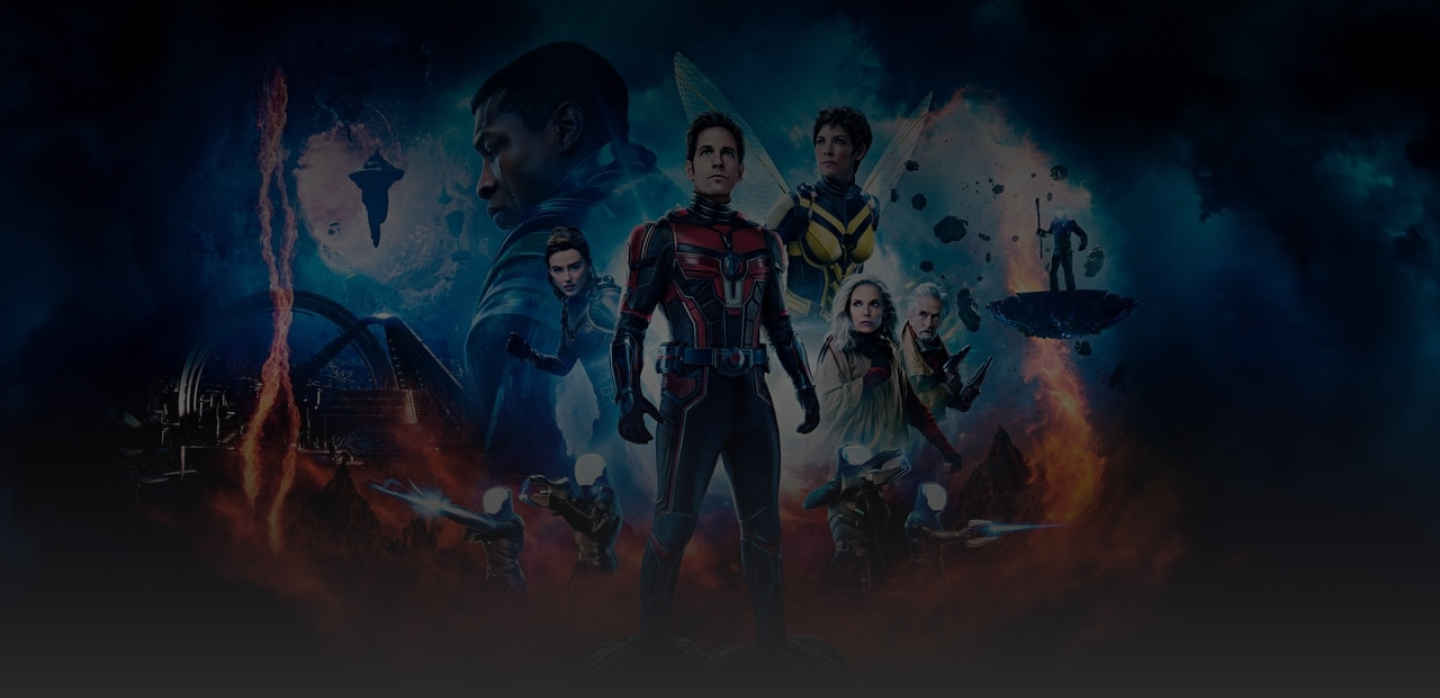
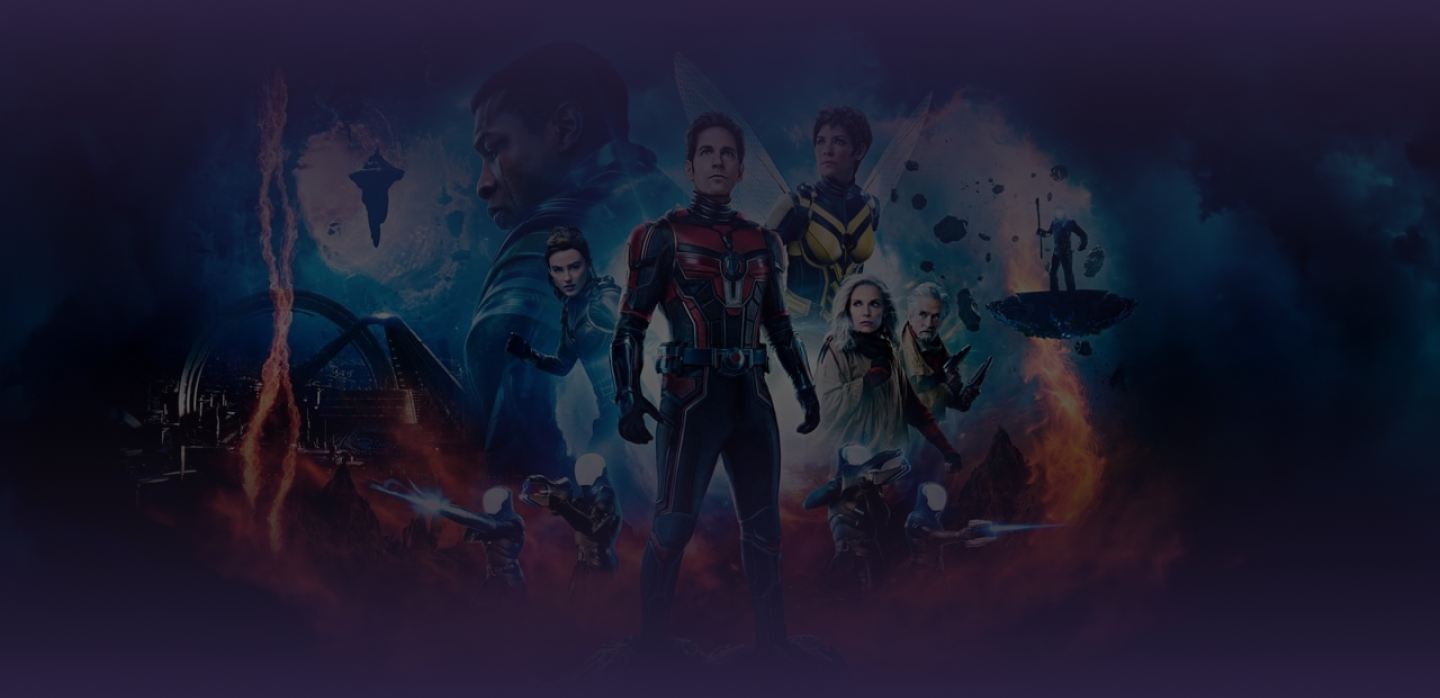
drajat yudo

Changed region(s): [[0.0, 0.0, 1.0, 0.2407]]

diff --git a/frontend/src/pages/login/Login.js b/frontend/src/pages/login/Login.js
@@ -4,21 +4,19 @@ import "./login.css";
 const Login = () => {
   return (
     <center>
-      <div class="login d-flex" style={{ height: "100vh" }}>
-        <div class="w-50" style={{ background: "#C44D4D" }}>
-          <img
-            src="./images/icon/cinema.png"
-            alt=""
-            style={{
-              width: "250px",
-              marginTop: "100px",
-            }}
-          />
-          <h3 className="text-white text-center mt-5 w-50">
-            Boking your ticket to watch your favorite movie
-          </h3>
-        </div>
+      <div className="login d-flex" style={{ height: "100vh" }}>
+        <div
+          data-aos="fade-right"
+          data-aos-duration="1000"
+          className="w-50 aos-animate aos-init"
+          style={{
+            backgroundImage: "url('./images/poster/bgLogin.png')",
+            backgroundSize: "cover",
+            backgroundRepeat: "no-repeat",
+          }}
+        ></div>
         <div className="input w-50 d-flex flex-column text-white">
+          <h2 className="mb-5 fw-bold">Login</h2>
           <input type="email" placeholder="Email" />
           <input type="password" placeholder="Password" />
           <button className="btn text-white rounded-2 p-2 my-4" type="submit">

diff --git a/frontend/src/components/jumbotron/HomeJumbotron.js b/frontend/src/components/jumbotron/HomeJumbotron.js
@@ -4,25 +4,30 @@ import { Swiper, SwiperSlide } from "swiper/react";
 
 // Import Swiper styles
 import "swiper/css";
+import "swiper/css/effect-fade";
 import "swiper/css/navigation";
 import "swiper/css/pagination";
+
 import "./style.css";
 
 // import required modules
-import { Navigation, Pagination, Mousewheel, Keyboard } from "swiper";
+import { Autoplay, EffectFade, Navigation, Pagination, Keyboard } from "swiper";
 import ContentSwiper from "./ContentSwiper";
 
 const HomeJumbotron = () => {
   return (
     <div style={{ marginTop: "-90px" }}>
       <Swiper
-        cssMode={true}
+        effect={"fade"}
+        autoplay={{
+          delay: 3000,
+          disableOnInteraction: false,
+        }}
         navigation={true}
         loop={true}
         pagination={{ clickable: true, dynamicBullets: true }}
-        mousewheel={true}
         keyboard={true}
-        modules={[Navigation, Pagination, Mousewheel, Keyboard]}
+        modules={[Autoplay, EffectFade, Navigation, Pagination, Keyboard]}
         className="mySwiper"
       >
         <center>

diff --git a/frontend/src/pages/login/Register.js b/frontend/src/pages/login/Register.js
@@ -6,20 +6,16 @@ const Register = () => {
   return (
     <center>
       <div class="register d-flex" style={{ height: "100vh" }}>
-        <div class="w-50" style={{ background: "#C44D4D" }}>
-          <img
-            src="./images/icon/cinema.png"
-            alt=""
-            style={{
-              width: "250px",
-              marginTop: "100px",
-            }}
-          />
-          <h3 className="text-white text-center mt-5 w-50">
-            Boking your ticket to watch your favorite movie
-          </h3>
-        </div>
+        <div
+          class="w-50"
+          style={{
+            backgroundImage: "url('./images/poster/bgLogin.png')",
+            backgroundSize: "cover",
+            backgroundRepeat: "no-repeat",
+          }}
+        ></div>
         <div className="input w-50 d-flex flex-column text-white">
+          <h2 className="mb-5 fw-bold">Register</h2>
           <input type="email" placeholder="Email" />
           <input type="password" placeholder="Password" />
           <input type="password" placeholder="Password" />

diff --git a/frontend/src/pages/Home.js b/frontend/src/pages/Home.js
@@ -4,6 +4,7 @@ import HomeJumbotron from "../components/jumbotron/HomeJumbotron";
 import Footer from "../components/layouts/Footer";
 import NavigationBar from "../components/layouts/NavigationBar";
 import ListMovie from "../components/ListMovie/ListMovie";
+import Option from "../components/Option";
 import OurPartner from "../components/OurPartner";
 
 const Home = () => {
@@ -12,12 +13,23 @@ const Home = () => {
       <NavigationBar />
       <HomeJumbotron />
       <Container>
+        <Option />
         <center>
           <ListMovie titleList="Now Showing In Cinema" />
           <ListMovie titleList="Popular" />
           <OurPartner />
         </center>
       </Container>
+      <div
+        style={{
+          backgroundImage: "url('./images/poster/bgFooter.png')",
+          backgroundSize: "cover",
+          backgroundRepeat: "no-repeat",
+          backgroundPosition: "0 -10px",
+          height: "80vh",
+          marginBottom: "-150px",
+        }}
+      ></div>
       <Footer />
     </div>
   );

diff --git a/frontend/src/components/Option.js b/frontend/src/components/Option.js
@@ -1,0 +1,29 @@
+import React from "react";
+
+const Option = () => {
+  return (
+    <div style={{ marginTop: "100px" }}>
+      <div className="option d-flex flex-column">
+        <button
+          className="btn text-white text-start fs-3 fw-bold ps-5"
+          style={{
+            backgroundImage: `url('./images/poster/nowShowingBg.png')`,
+          }}
+        >
+          Now Showing
+        </button>
+        <button
+          className="btn text-white mt-5 text-start fs-3 fw-bold ps-5"
+          style={{
+            backgroundImage: `url('./images/poster/marvelBg.png')`,
+          }}
+        >
+          Marvel Movie
+        </button>
+      </div>
+      <div></div>
+    </div>
+  );
+};
+
+export default Option;

diff --git a/frontend/src/styles/style.css b/frontend/src/styles/style.css
@@ -1,7 +1,7 @@
 @import url("https://fonts.googleapis.com/css2?family=Poppins&display=swap");
 
 body {
-  background-color: #292929;
+  background-color: #2a2141;
   font-family: "Poppins", sans-serif;
 }
 
@@ -12,4 +12,21 @@ a {
 
 a:hover {
   color: rgb(221, 221, 221);
+}
+
+.option button {
+  background-size: cover;
+  background-repeat: no-repeat;
+  background-position: 0 -10px;
+  height: 100px;
+  width: 500px;
+  border-radius: 5px;
+  transition: 0.8s;
+}
+
+.option button:hover {
+  background-size: 150%;
+  border-right: 5px solid rgb(158, 24, 24);
+  width: 504px;
+  background-position: 50% 50%;
 }

diff --git a/frontend/src/components/jumbotron/AboutJumbotron.js b/frontend/src/components/jumbotron/AboutJumbotron.js
@@ -6,9 +6,10 @@ const AboutJumbotron = () => {
     backgroundSize: "cover",
     backgroundRepeat: "no-repeat",
     backgroundImage: `url('./images/poster/wide-bg.png')`,
-    backgroundPosition: "0 -110px",
+    backgroundPosition: "0 -50px",
     color: "white",
-    padding: "100px 150px",
+    padding: "150px",
+    marginTop: "-90px",
   };
 
   const imgStyle = {

diff --git a/frontend/src/pages/login/login.css b/frontend/src/pages/login/login.css
@@ -2,7 +2,7 @@
 
 .login .input,
 .register .input {
-  padding: 200px 150px;
+  padding: 150px;
 }
 
 .login h3,
@@ -22,10 +22,10 @@
 
 .login button,
 .register button {
-  background-color: #c44d4d;
+  background-color: #c88623;
 }
 
 .login button:hover,
 .register button:hover {
-  background-color: #9e4040;
+  background-color: #ac731e;
 }

diff --git a/frontend/src/pages/ChoiceChair.js b/frontend/src/pages/ChoiceChair.js
@@ -51,7 +51,7 @@ const ChoiceChair = () => {
       </div>
 
       {valueBtn === true && (
-        <button className="text-white bg-success fw-bold w-100 border-0 py-2 mt-5 rounded-2">
+        <button className="text-white bg-success fw-bold w-100 border-0 py-2 mt-3 rounded-2">
           RP.35.0000
         </button>
       )}

diff --git a/frontend/src/components/layouts/layouts.css b/frontend/src/components/layouts/layouts.css
@@ -1,4 +1,5 @@
-.navbar {
+.navbar,
+footer {
   background: rgba(41, 41, 41, 0.3);
   backdrop-filter: blur(5.5px);
   -webkit-backdrop-filter: blur(5.5px);
@@ -14,10 +15,8 @@
 }
 
 footer {
-  background-color: #c54d4d;
   padding-top: 50px;
   padding-bottom: 50px;
-  margin-top: 150px;
 }
 
 footer a {

diff --git a/frontend/src/components/ChoiceChair/Chair.js b/frontend/src/components/ChoiceChair/Chair.js
@@ -8,7 +8,7 @@ const Chair = (props) => {
   return (
     <button
       className="btn me-4 my-3 text-white"
-      style={{ background: `${bgBtn}` }}
+      style={{ background: `${bgBtn}`, width: "50px" }}
       onClick={() => {
         props.onClick();
         changeColor();

diff --git a/frontend/src/data/dataChair.js b/frontend/src/data/dataChair.js
@@ -134,15 +134,6 @@ const dataChair = [
   {
     chair: "C16",
   },
-  {
-    chair: "D1",
-  },
-  {
-    chair: "D2",
-  },
-  {
-    chair: "D3",
-  },
 ];
 
 export { dataChair };
